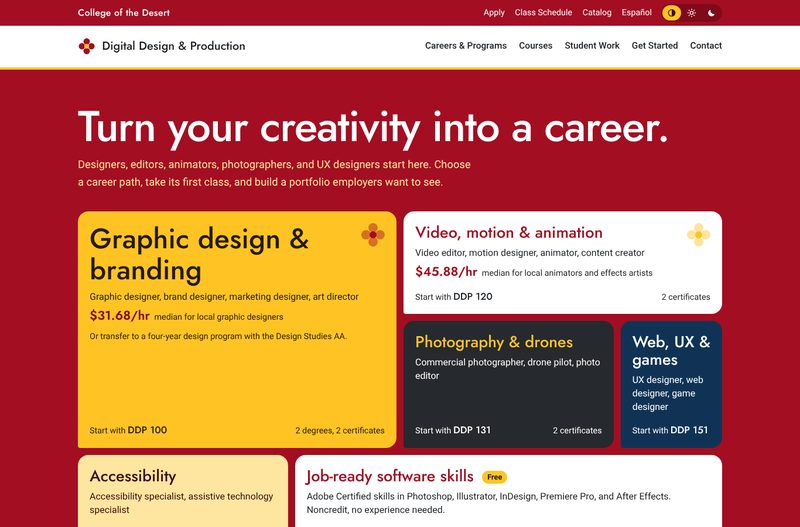
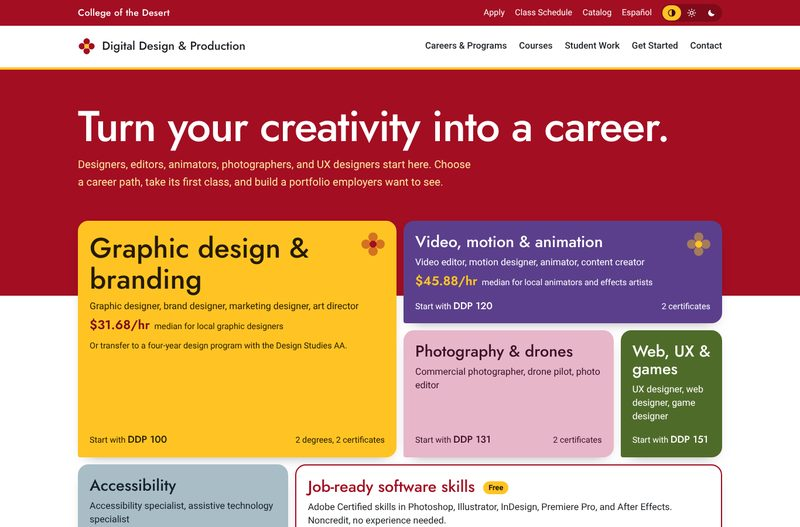
Direction C: bring back path colors within the red and gold frame
Career tiles overlap the red hero band; each path keeps a desert-bloom
color (gold, chia, willow, cholla, smoke tree) that will carry onto its
program page. Red and gold remain the brand frame. axe clean in all
four theme states.

Claude-Session: https://claude.ai/code/session_01Mj1y2jybZeHCPPvekYig9a

diff --git a/docs/mockups/c-wildflower.html b/docs/mockups/c-wildflower.html
@@ -11,6 +11,8 @@
    "Match my device" follows the system; the header switch forces light or dark. ===== */
 :root,:root:has(#th-light:checked){
   --red:#A30E22; --red-deep:#7E0A1A; --gold:#FFC423; --gold-soft:#FFE6A0; --navy:#103355; --char:#26292D;
+  /* path colors, after the desert blooms in COD's campus signage standard */
+  --chia:#5B3F8C; --cholla:#4F6B2A; --willow:#E7B6C9; --smoketree:#A9BDC7;
   --bg:#ffffff; --ink:#1D2125; --muted:#4f565d; --line:#e6dfcf; --panel:#FFF6DC; --link:#A30E22;
   --hero:#A30E22; --hero-ink:#ffffff; --hero-lede:#FFE6A0;
   --accent:#A30E22;            /* big numbers, course codes */
@@ -56,13 +58,14 @@
 .dept nav a:hover{border-color:var(--red)}
 
 /* ===== Hero: Roadrunner-red band; career tiles in gold, white, navy, charcoal ===== */
-.field{background:var(--hero);color:var(--hero-ink);padding:clamp(2.25rem,5vw,3.75rem) 0 clamp(2.5rem,5vw,4rem)}
+.field{background:var(--hero);color:var(--hero-ink);padding:clamp(2.25rem,5vw,3.75rem) 0 clamp(7rem,12vw,9rem)}
+.tiles{margin-top:clamp(-8rem,-11vw,-6rem);padding-bottom:clamp(1rem,3vw,2rem)}
+.tiles .src{color:var(--muted);font-size:.82rem;margin:1rem 0 0}
 .field h1{font:500 clamp(2.4rem,6vw,4.6rem)/1 var(--display);letter-spacing:-.02em;margin:0 0 .85rem;color:#fff}
 .field .lede{font-size:1.15rem;color:var(--hero-lede);max-width:42rem;margin:0 0 2.25rem}
-.field .src{color:#ffd9de;font-size:.82rem;margin:1.1rem 0 0}
 .blooms{list-style:none;margin:0;padding:0;display:grid;grid-template-columns:repeat(6,minmax(0,1fr));grid-auto-rows:minmax(150px,auto);gap:12px}
-.blooms li{position:relative;border-radius:18px 18px 18px 4px;padding:1.3rem 1.25rem 1.1rem;display:flex;flex-direction:column;justify-content:space-between;background:var(--t-bg);color:var(--t-ink)}
-.blooms li:focus-within{outline:3px solid var(--gold);outline-offset:3px}
+.blooms li{position:relative;border-radius:18px 18px 18px 4px;box-shadow:0 10px 24px -16px rgba(0,0,0,.55);padding:1.3rem 1.25rem 1.1rem;display:flex;flex-direction:column;justify-content:space-between;background:var(--t-bg);color:var(--t-ink)}
+.blooms li:focus-within{outline:3px solid var(--ink);outline-offset:3px}
 .blooms a{color:inherit;text-decoration:none}
 .blooms a::after{content:"";position:absolute;inset:0}
 .blooms h2{font:500 clamp(1.25rem,2vw,1.7rem)/1.1 var(--display);margin:0 0 .5rem;color:var(--t-head,inherit)}
@@ -75,11 +78,11 @@
 .flower{position:absolute;right:1.1rem;top:1.1rem;width:44px;height:44px;color:var(--t-flower,currentColor)}
 .b-design{grid-column:span 3;grid-row:span 2;--t-bg:var(--gold);--t-ink:#241a00;--t-num:#7E0A1A;--t-flower:#A30E22}
 .b-design h2{font-size:clamp(2rem,3.6vw,3rem)}
-.b-motion{grid-column:span 3;--t-bg:var(--card);--t-ink:var(--card-ink);--t-head:var(--card-head);--t-num:var(--accent);--t-flower:var(--gold)}
-.b-photo{grid-column:span 2;--t-bg:var(--char);--t-ink:#fff;--t-head:var(--gold)}
-.b-interactive{grid-column:span 1;--t-bg:var(--navy);--t-ink:#fff;--t-head:#fff}
-.b-access{grid-column:span 2;--t-bg:var(--soft);--t-ink:var(--soft-ink)}
-.b-software{grid-column:span 4;--t-bg:var(--card);--t-ink:var(--card-ink);--t-head:var(--card-head)}
+.b-motion{grid-column:span 3;--t-bg:var(--chia);--t-ink:#fff;--t-num:var(--gold);--t-flower:var(--gold)}
+.b-photo{grid-column:span 2;--t-bg:var(--willow);--t-ink:#3a1027}
+.b-interactive{grid-column:span 1;--t-bg:var(--cholla);--t-ink:#fff}
+.b-access{grid-column:span 2;--t-bg:var(--smoketree);--t-ink:#13202a}
+.b-software{grid-column:span 4;--t-bg:var(--card);--t-ink:var(--card-ink);--t-head:var(--card-head);border:2px solid var(--red)}
 .free-tag{display:inline-block;background:var(--gold);color:#241a00;font:600 .8rem/1 var(--body);padding:.3rem .55rem;border-radius:999px;margin-left:.4rem;vertical-align:.25em}
 
 section{padding:clamp(3rem,7vw,5rem) 0}
@@ -176,6 +179,10 @@ section{padding:clamp(3rem,7vw,5rem) 0}
   <div class="wrap">
     <h1>Turn your creativity into a career.</h1>
     <p class="lede">Designers, editors, animators, photographers, and UX designers start here. Choose a career path, take its first class, and build a portfolio employers want to see.</p>
+  </div>
+</div>
+<div class="tiles">
+  <div class="wrap">
     <ul class="blooms">
       <li class="b-design"><svg class="flower" aria-hidden="true"><use href="#fl"/></svg><div><h2><a href="#">Graphic design &amp; branding</a></h2><p class="jobs">Graphic designer, brand designer, marketing designer, art director</p><p class="wage"><b>$31.68/hr</b> median for local graphic designers</p><p class="wage">Or transfer to a four-year design program with the Design Studies AA.</p></div><p class="start"><span>Start with <b>DDP 100</b></span><span>2 degrees, 2 certificates</span></p></li>
       <li class="b-motion"><svg class="flower" aria-hidden="true"><use href="#fl"/></svg><div><h2><a href="#">Video, motion &amp; animation</a></h2><p class="jobs">Video editor, motion designer, animator, content creator</p><p class="wage"><b>$45.88/hr</b> median for local animators and effects artists</p></div><p class="start"><span>Start with <b>DDP 120</b></span><span>2 certificates</span></p></li>

diff --git a/docs/mockups/index.html b/docs/mockups/index.html
@@ -52,10 +52,10 @@ h1{font:500 clamp(2rem,4.5vw,3.2rem)/1.05 var(--display);margin:0 0 .75rem}
       </div>
     </li>
     <li>
-      <a href="c-wildflower.html"><img src="thumbs/c.jpg" alt="Direction C homepage: the headline Turn your creativity into a career on a red band, above six career path tiles in gold, white, charcoal, navy, and pale gold" width="800" height="527"></a>
+      <a href="c-wildflower.html"><img src="thumbs/c.jpg" alt="Direction C homepage: the headline Turn your creativity into a career on a red band, above six career path tiles in gold, purple, pink, green, blue, and white" width="800" height="527"></a>
       <div>
         <h2><a href="c-wildflower.html">C. Creative Careers</a> (selected)</h2>
-        <p>Leads with careers on a Roadrunner-red band. Six career paths in COD red, gold, navy, and charcoal, each with the jobs it leads to, local pay where available, and its first class. Includes a light, dark, and match-my-device switch.</p>
+        <p>Leads with careers on a Roadrunner-red band, with red and gold carrying the brand throughout. Each of the six career paths keeps its own desert-bloom color (gold, chia purple, desert-willow pink, cholla green, smoke-tree blue), which follows it onto its own page. Includes a light, dark, and match-my-device switch.</p>
         <dl><dt>Best for</dt><dd>Students who want to know where the work leads. It is the most direct route from "I'm creative" to a job title and a first class.</dd>
         <dt>Needs</dt><dd>Nothing new. Chosen direction for the full build.</dd></dl>
         <a class="btn btn-red" href="c-wildflower.html">Open Direction C</a>
